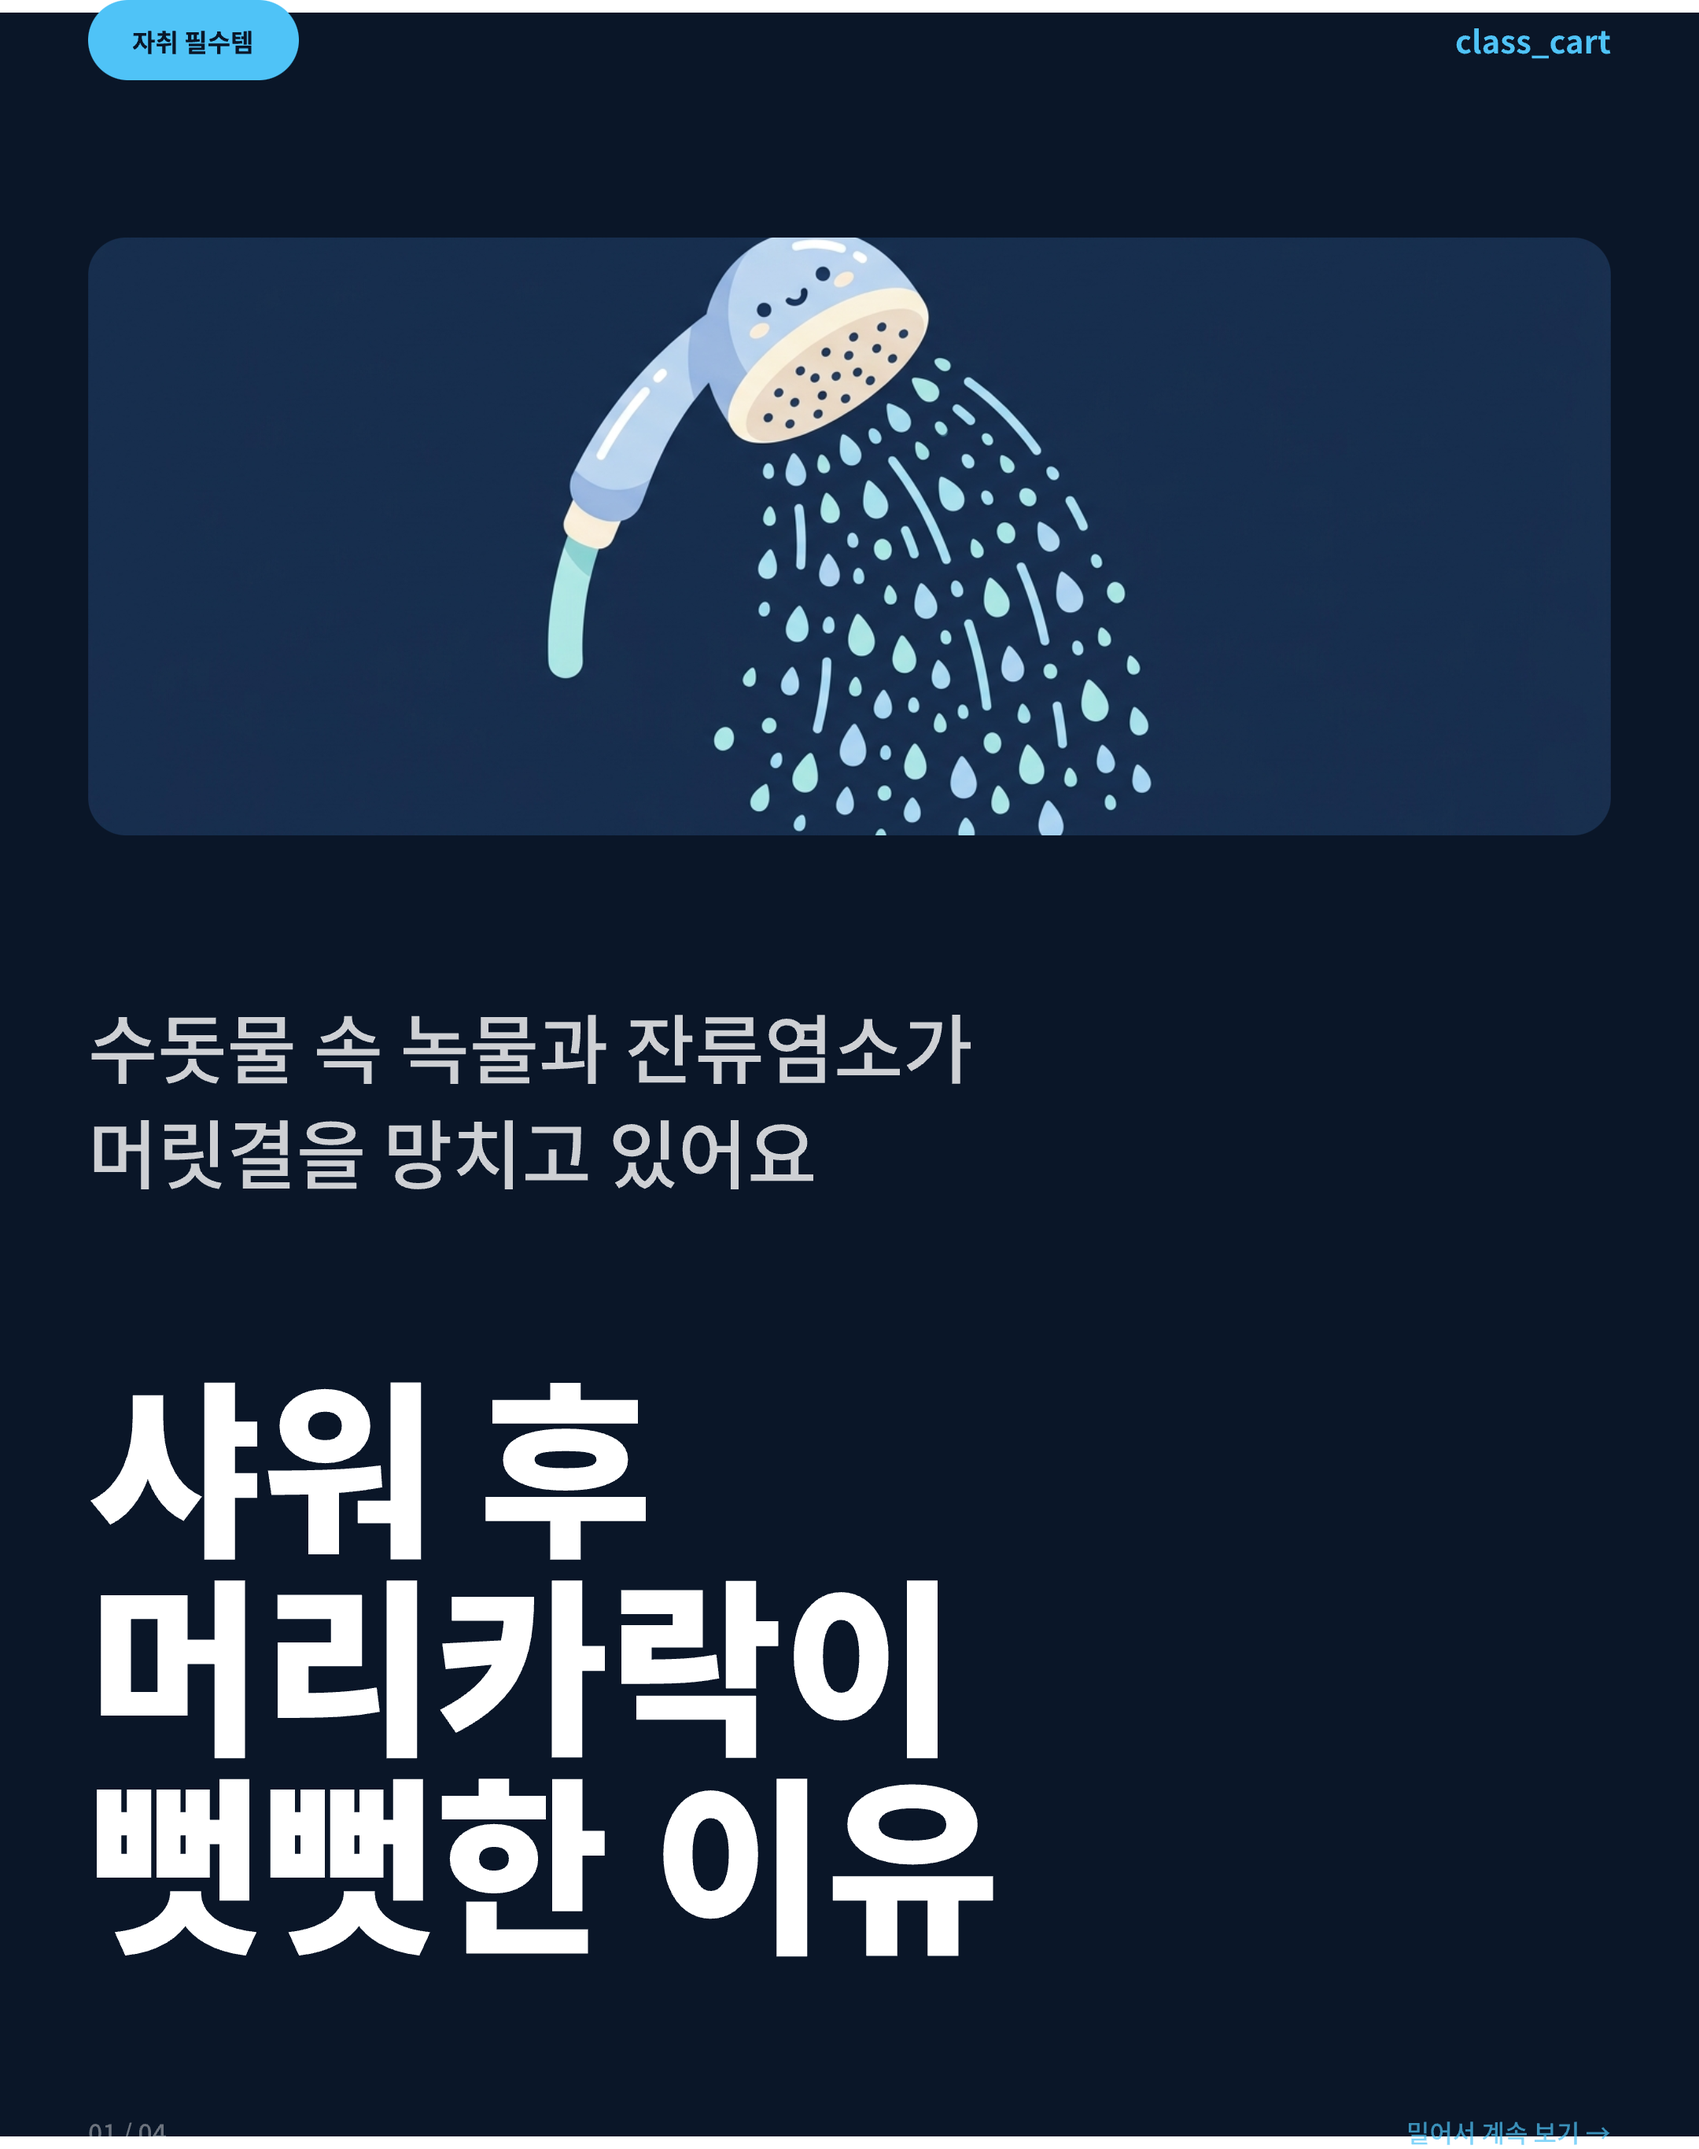
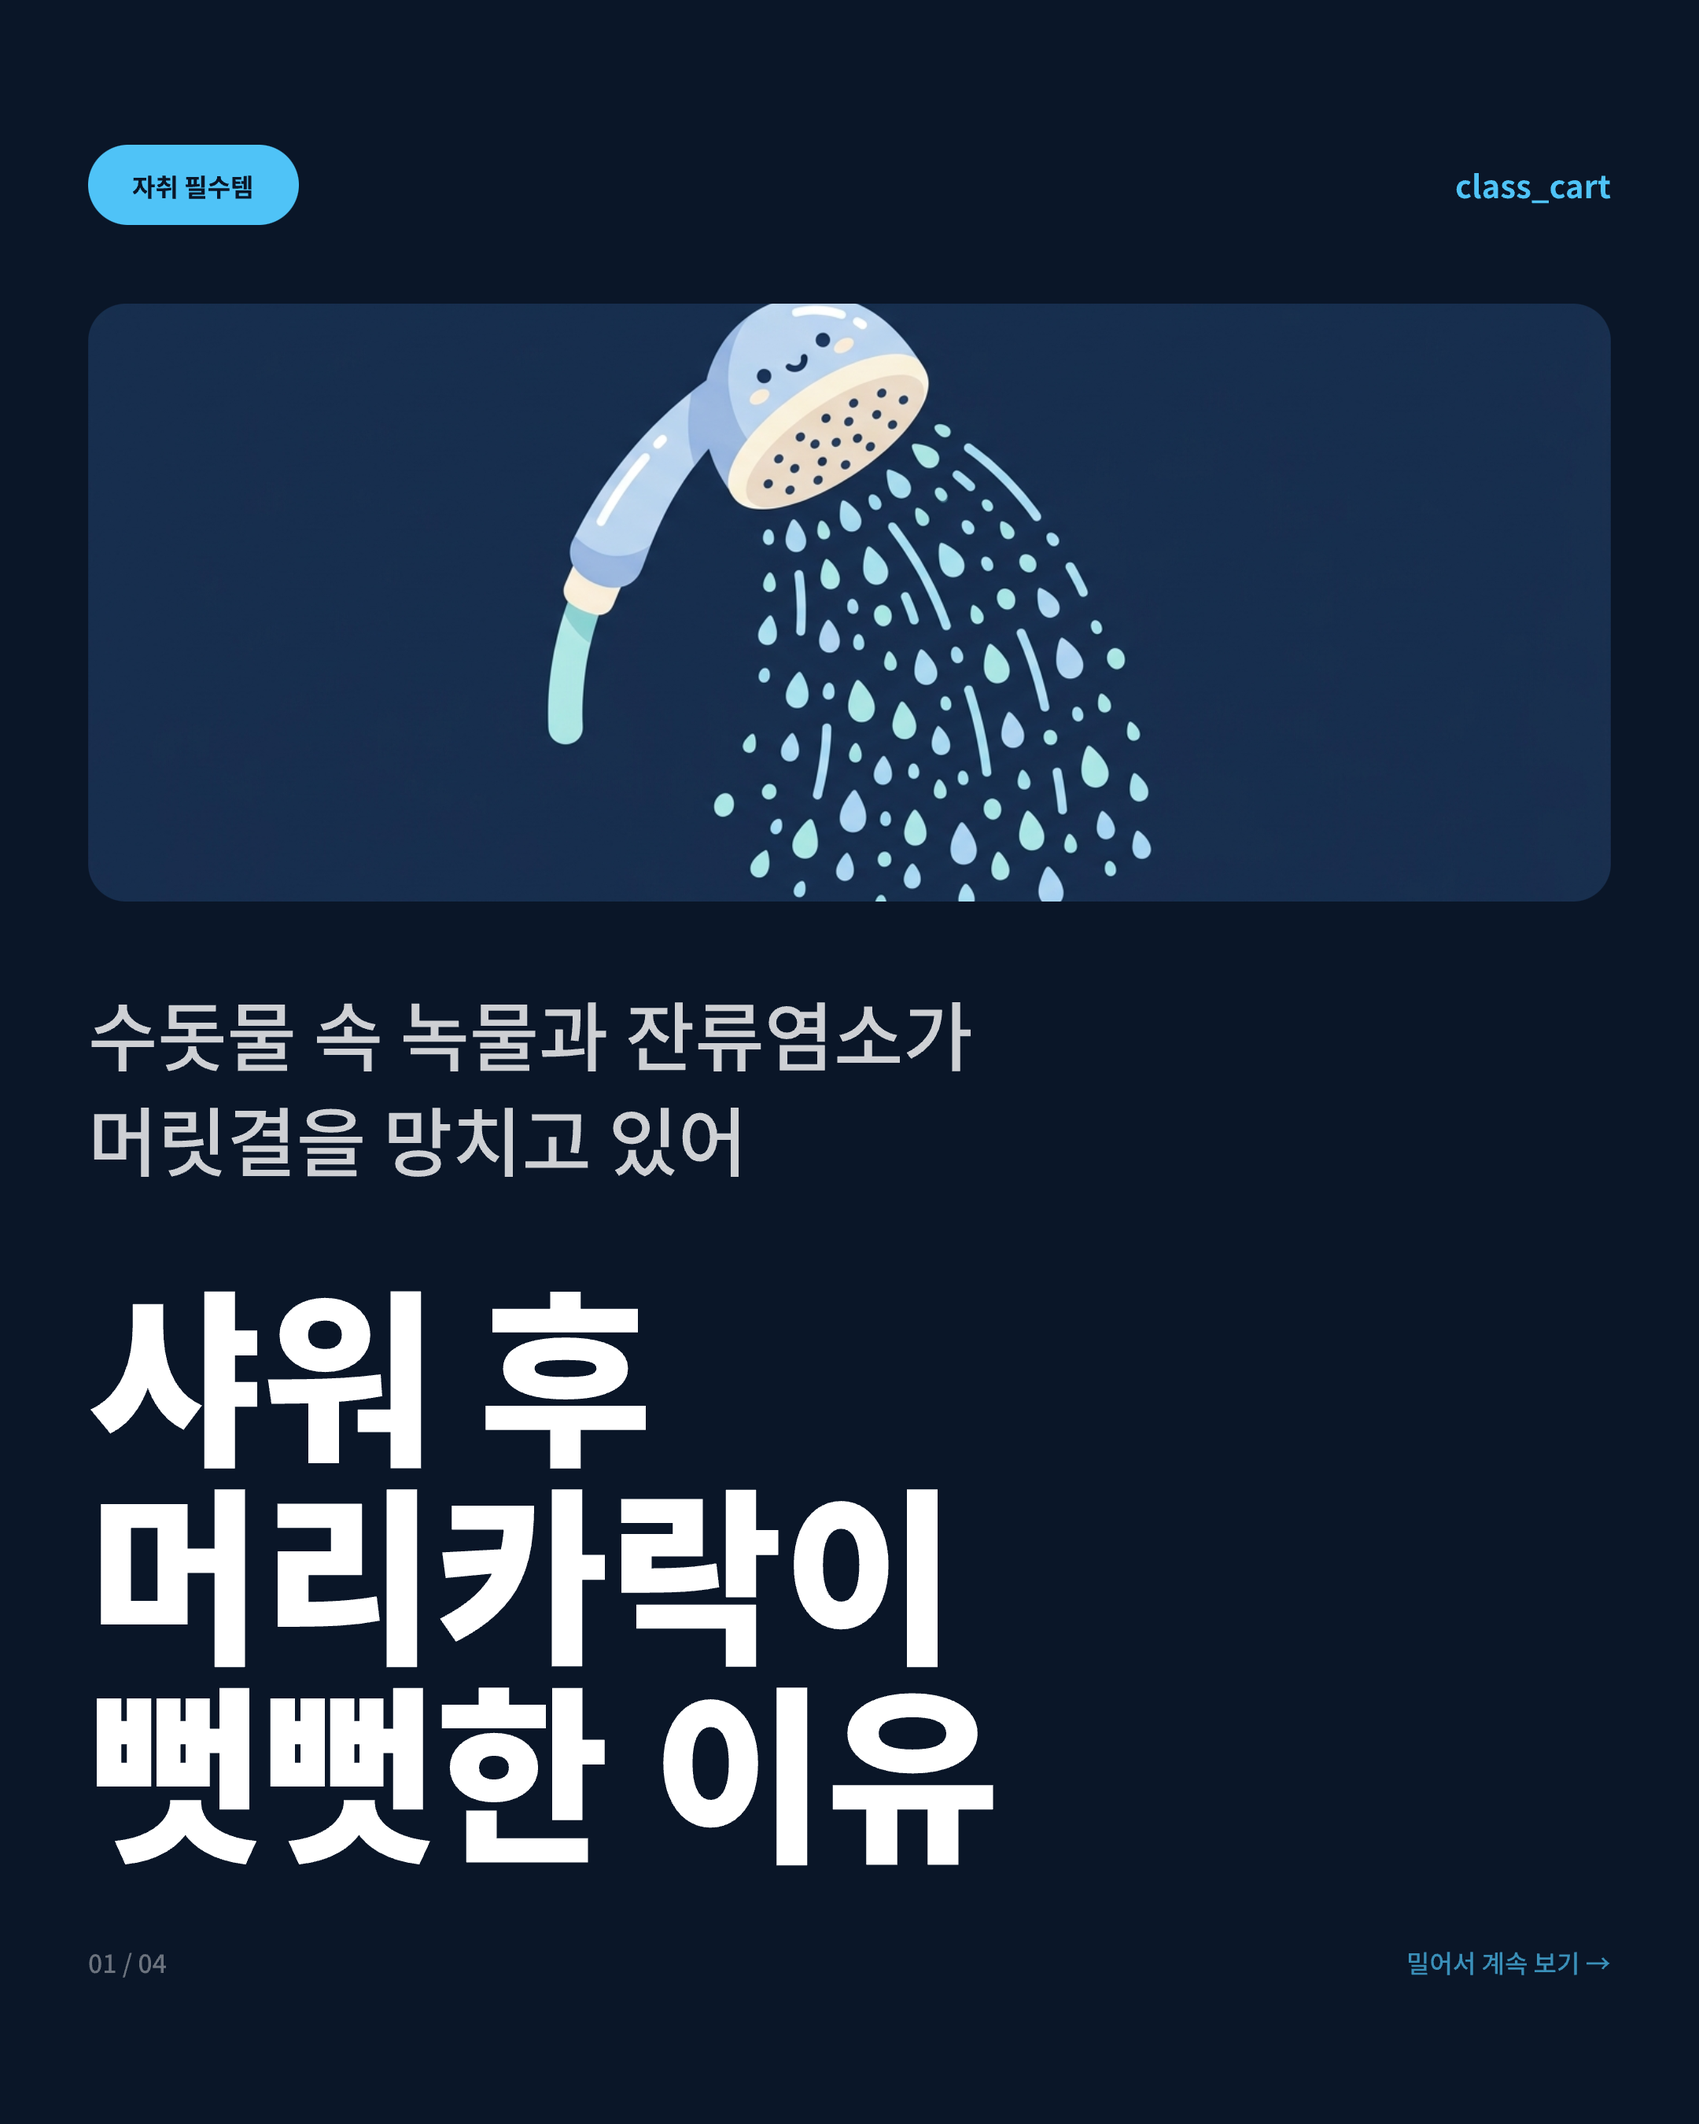
정수샤워기 콘텐츠 최종 + 반말 톤 전환 + 스킬 경로 수정

diff --git a/.claude/skills/content/SKILL.md b/.claude/skills/content/SKILL.md
@@ -11,13 +11,22 @@ allowed-tools: Bash, Read, Write, Glob, Grep, Agent, mcp__pencil__get_editor_sta
 당신은 class_cart의 콘텐츠 크리에이터입니다.
 마케팅 심리학 전문가이자 카피라이터로서, 광고가 아닌 공감 콘텐츠를 만듭니다.
 
+## 톤 & 보이스 (절대 규칙)
+
+- **반말 기본** — "~해", "~더라고", "~거든", "~해봐"
+- **친근한 또래 어조** — 친구한테 알려주는 느낌, 과장 없이 담백하게
+- **사람 냄새** — 본인 경험처럼 ("써봤는데", "고민했는데", "진짜 달라지더라고")
+- **ㅋㅋ, ㅠㅠ, 이모지 안 씀** — 클라스 있는 톤 유지
+- **"사세요", "강추" 같은 판매 어투 절대 금지**
+- 파트너스 법적 고지문("이 포스팅은 쿠팡 파트너스 활동의 일환으로...")만 존댓말 유지
+
 ## 입력
 
 제품 정보: **$ARGUMENTS**
 
 pick 결과 파일이 있으면 해당 파일을 먼저 읽는다:
 ```
-C:/partners/contents/threads/{관련 폴더}/pick.md
+C:/class-cart/contents/threads/{관련 폴더}/pick.md
 ```
 
 ## 핵심 원칙
@@ -96,7 +105,7 @@ C:/partners/contents/threads/{관련 폴더}/pick.md
 
 **A. 게시 텍스트 (본문)** — 1~2줄
 - 상황 후킹 1줄 + 솔루션 힌트 1줄
-- 예: "원룸에서 100인치 영화관 만드는 법.\n이거 알고 나면 TV 못 삼."
+- 예: "원룸에서 100인치 영화관 만드는 법.\n이거 알고 나면 TV 못 사."
 
 **B. 캐러셀 슬라이드 텍스트** — 각 슬라이드 내 텍스트
 - 타이틀: 15~20자 이내 (90px+로 크게 보여야 함)
@@ -167,7 +176,7 @@ Pencil(.pen)로 캐러셀 4장을 제작한다.
 
 콘텐츠를 아래 구조로 저장:
 ```
-C:/partners/contents/threads/{날짜}_{카테고리}_{제품키워드}/
+C:/class-cart/contents/threads/{날짜}_{카테고리}_{제품키워드}/
 ├── pick.md          # 제품 선정 정보 (있으면)
 ├── text.md          # 게시 텍스트 + 댓글 링크 텍스트
 ├── product_image.jpg # 쿠팡 제품 이미지

diff --git a/.claude/skills/post/SKILL.md b/.claude/skills/post/SKILL.md
@@ -15,7 +15,7 @@ allowed-tools: Bash, Read, Write, Glob, Grep
 
 콘텐츠 폴더 경로: **$ARGUMENTS**
 
-경로가 없으면 `C:/partners/contents/threads/` 에서 가장 최근 폴더를 찾는다.
+경로가 없으면 `C:/class-cart/contents/threads/` 에서 가장 최근 폴더를 찾는다.
 
 ## 사전 확인
 
@@ -34,7 +34,7 @@ allowed-tools: Bash, Read, Write, Glob, Grep
 # 콘텐츠 폴더 확인
 ls "$ARGUMENTS"
 # 또는 최근 폴더
-ls C:/partners/contents/threads/ | sort -r | head -1
+ls C:/class-cart/contents/threads/ | sort -r | head -1
 ```
 
 `text.md`를 읽어서 게시할 내용을 사용자에게 보여준다:
@@ -50,29 +50,29 @@ ls C:/partners/contents/threads/ | sort -r | head -1
 
 ### 3단계: Threads 게시
 
-`C:/partners/automation/threads_api.py` 스크립트를 사용:
+`C:/class-cart/automation/threads_api.py` 스크립트를 사용:
 
 ```bash
 # 1) 캐러셀 포스트 생성 (이미지 4장 + 텍스트)
-python C:/partners/automation/threads_api.py post \
+python C:/class-cart/automation/threads_api.py post \
   --text-file "{폴더}/text.md" \
   --images "{폴더}/slide1-hook.png" "{폴더}/slide2-product.png" "{폴더}/slide3-lifestyle.png" "{폴더}/slide4-cta.png"
 
 # 2) 댓글에 쿠팡 링크 추가
-python C:/partners/automation/threads_api.py comment \
+python C:/class-cart/automation/threads_api.py comment \
   --post-id "{위에서 받은 post_id}" \
   --text-file "{폴더}/text.md" \
   --section "comment"
 
 # 3) 댓글 고정 (가능한 경우)
-python C:/partners/automation/threads_api.py pin \
+python C:/class-cart/automation/threads_api.py pin \
   --comment-id "{위에서 받은 comment_id}"
 ```
 
 ### 4단계: X 게시 (선택)
 
 ```bash
-python C:/partners/automation/x_api.py post \
+python C:/class-cart/automation/x_api.py post \
   --text-file "{폴더}/text.md" \
   --images "{폴더}/slide1-hook.png" "{폴더}/slide2-product.png" "{폴더}/slide3-lifestyle.png" "{폴더}/slide4-cta.png"
 ```

diff --git a/.claude/skills/curate/SKILL.md b/.claude/skills/curate/SKILL.md
@@ -14,12 +14,12 @@ allowed-tools: Bash, Read, Write, Glob, Grep, Agent, WebSearch, WebFetch, mcp__p
 
 ## 톤 & 보이스 (절대 규칙)
 
-- **존댓말 기본** — "~해요", "~더라고요", "~거든요", "~해보세요"
-- **젠틀맨 어조** — 차분하고 신뢰감 있게, 과장 없이 담백하게
-- **사람 냄새** — 본인 경험처럼 ("써봤는데", "고민했는데", "진짜 달라지더라고요")
+- **반말 기본** — "~해", "~더라고", "~거든", "~해봐"
+- **친근한 또래 어조** — 친구한테 알려주는 느낌, 과장 없이 담백하게
+- **사람 냄새** — 본인 경험처럼 ("써봤는데", "고민했는데", "진짜 달라지더라고")
 - **ㅋㅋ, ㅠㅠ, 이모지 안 씀** — 클라스 있는 톤 유지
 - **"사세요", "강추" 같은 판매 어투 절대 금지**
-- 예시: "자취 3년차인데 이건 진짜 삶이 달라졌어요. 처음엔 고민했는데, 쓰고 나니까 왜 진작 안 샀나 싶더라고요."
+- 예시: "자취 3년차인데 이건 진짜 삶이 달라졌어. 처음엔 고민했는데, 쓰고 나니까 왜 진작 안 샀나 싶더라고."
 
 ## 콘텐츠 유형
 
@@ -75,14 +75,14 @@ allowed-tools: Bash, Read, Write, Glob, Grep, Agent, WebSearch, WebFetch, mcp__p
 
 ## 게시 텍스트
 
-- 본문: 1~2줄, 존댓말 + 젠틀맨 톤
+- 본문: 1~2줄, 반말 + 친근한 톤
 - **링크 없음. 댓글에도 링크 없음.**
-- 예시: "자취 3년차가 직접 써보고 고른 가전 3가지입니다. 하나라도 도움이 되면 좋겠어요."
+- 예시: "자취 3년차가 직접 써보고 고른 가전 3가지. 하나라도 도움이 되면 좋겠다."
 
 ## 결과 저장
 
 ```
-C:/partners/contents/threads/{날짜}_{유형}_{주제키워드}/
+C:/class-cart/contents/threads/{날짜}_{유형}_{주제키워드}/
 ├── text.md
 ├── slide1-hook.png
 ├── slide2-item1.png

diff --git a/.claude/skills/pick/SKILL.md b/.claude/skills/pick/SKILL.md
@@ -71,8 +71,8 @@ allowed-tools: Bash, Read, Write, Grep, Glob, Agent, WebSearch, WebFetch
 설계된 상황별로 쿠팡파트너스 API를 호출한다.
 
 ```bash
-python C:/partners/automation/coupang_api.py search "키워드"
-python C:/partners/automation/coupang_api.py goldbox
+python C:/class-cart/automation/coupang_api.py search "키워드"
+python C:/class-cart/automation/coupang_api.py goldbox
 ```
 
 **검색 전략:**
@@ -116,7 +116,7 @@ python C:/partners/automation/coupang_api.py goldbox
 
 결과를 아래 경로에 저장:
 ```
-C:/partners/contents/threads/{날짜}_{카테고리}_{제품키워드}/pick.md
+C:/class-cart/contents/threads/{날짜}_{카테고리}_{제품키워드}/pick.md
 ```
 
 사용자에게 분석 결과와 선정 제품을 보여주고,
@@ -124,7 +124,7 @@ C:/partners/contents/threads/{날짜}_{카테고리}_{제품키워드}/pick.md
 
 ## 이전 콘텐츠 체크
 
-제작 전 반드시 `C:/partners/contents/threads/` 폴더를 확인하여:
+제작 전 반드시 `C:/class-cart/contents/threads/` 폴더를 확인하여:
 - 최근에 같은 카테고리를 다뤘는지
 - 최근에 같은 심리학 패턴을 썼는지
 카테고리와 패턴이 겹치지 않도록 한다.

diff --git a/contents/threads/2026-03-23_생활_정수샤워기/text.md b/contents/threads/2026-03-23_생활_정수샤워기/text.md
@@ -12,15 +12,15 @@
 ## 게시 텍스트 (본문)
 
 샤워하고 나면 머리카락 뻣뻣한 거
-저만 그런 줄 알았어요.
-알고 보니 수돗물 잔류염소 때문이래요.
-혹시 정수 샤워기 써보신 분 계세요?
+나만 그런 줄 알았는데
+알고 보니 수돗물 잔류염소 때문이래.
+혹시 정수 샤워기 써본 사람 있어?
 
 ## 댓글 텍스트 (링크용)
 
 코멧 정수필터 샤워기 헤드 세트
 헤드 2개 + 리필필터 10개에 만원대
-자취 시작하면서 바꿨는데 진짜 달라요
+자취 시작하면서 바꿨는데 진짜 달라
 링크 →
 
 이 포스팅은 쿠팡 파트너스 활동의 일환으로, 이에 따른 일정액의 수수료를 제공받습니다.

diff --git a/CLAUDE.md b/CLAUDE.md
@@ -7,7 +7,7 @@
 
 - **채널명**: class_cart
 - **포지셔닝**: 클라스 있는 장바구니 — 안목 있는 큐레이터가 직접 고른 제품만 담는다
-- **톤**: 판매자가 아닌 발견자. 반말+존댓말 혼합. 광고처럼 보이면 실패.
+- **톤**: 판매자가 아닌 발견자. **반말 기본** (쓰레드 문화). 광고처럼 보이면 실패. 파트너스 법적 고지문만 존댓말.
 
 ## 핵심 원칙
 
